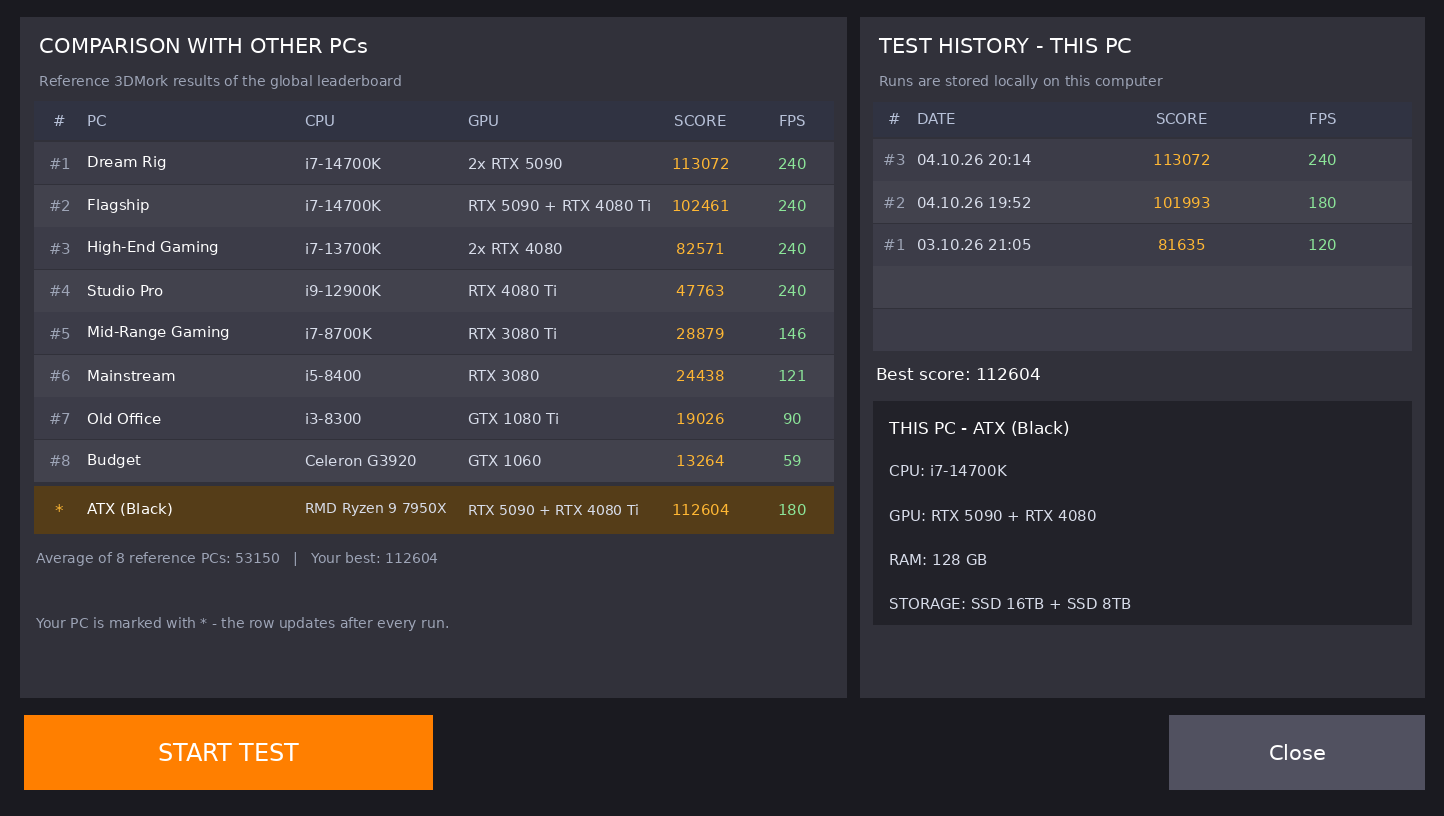
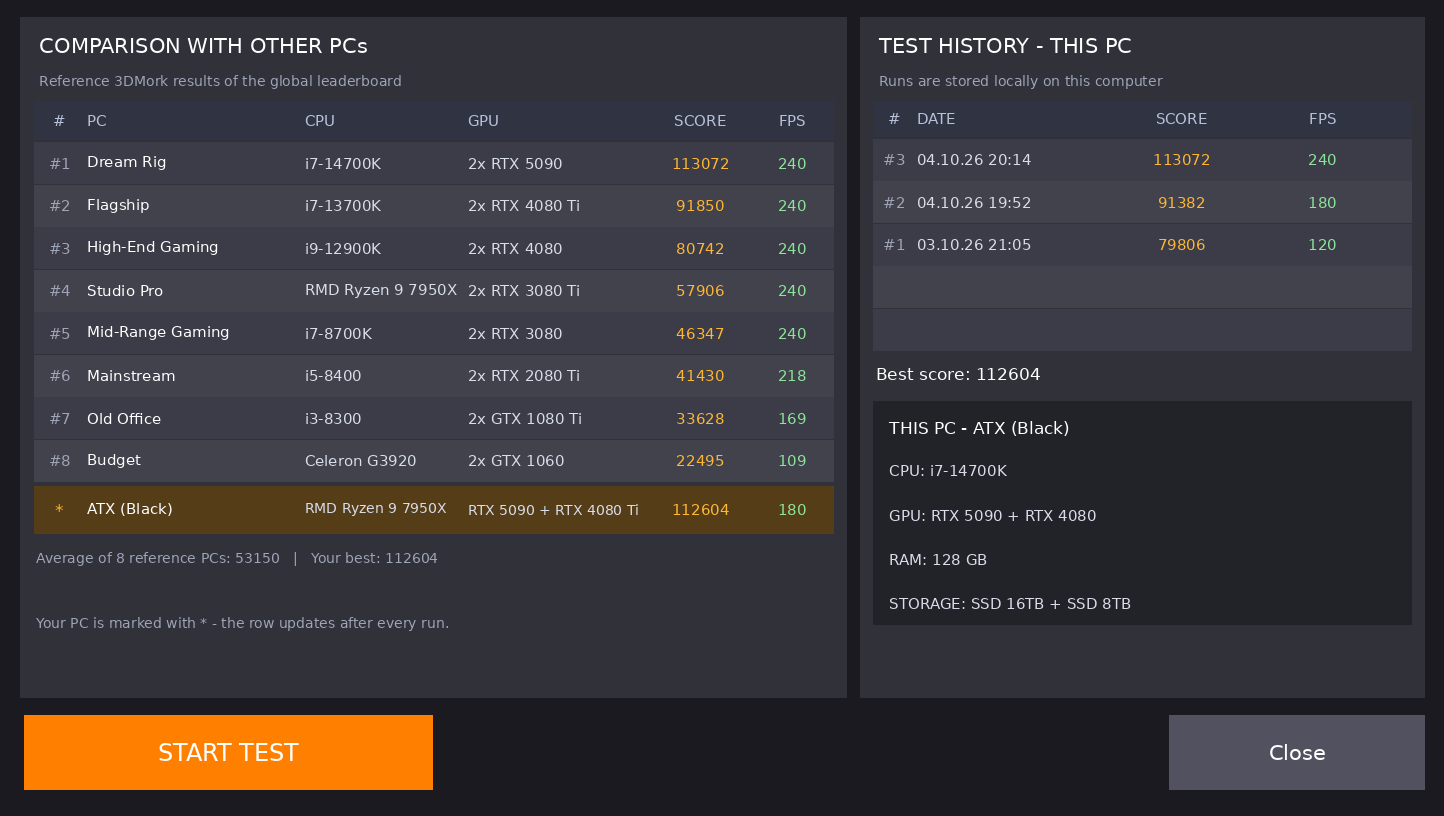
3DMork: в эталонных сборках всегда пара одинаковых видеокарт

diff --git a/tools/3dmork_builds.py b/tools/3dmork_builds.py
@@ -38,32 +38,35 @@ CPU_PART = {
     "i3-8300": (2200, 3.7), "Celeron G3920": (2000, 2.9),
 }
 
+# Пара видеокарт в сборке всегда одинаковая: "RTX 5090 + RTX 4080 Ti" -
+# это не собранная в жизни машина, а набор случайных деталей.
+
 # Сборка мечты, дальше - ступени вниз. Названия идут ключами перевода,
 # чтобы таблица читалась на любом языке (см. ThreeDMork.cs).
 BUILDS = [
     {"key": "3DMork build 1", "cpu": "i7-14700K",
      "gpus": ["RTX5090", "RTX5090"], "rams": ["RAM 64GB(RGB)", "RAM 64GB(RGB)"],
      "drives": ["SSD 16TB", "SSD_M.2 8TB"]},
-    {"key": "3DMork build 2", "cpu": "i7-14700K",
-     "gpus": ["RTX5090", "RTX4080Ti"], "rams": ["RAM 64GB", "RAM 64GB"],
+    {"key": "3DMork build 2", "cpu": "i7-13700K",
+     "gpus": ["RTX4080Ti", "RTX4080Ti"], "rams": ["RAM 64GB", "RAM 64GB"],
      "drives": ["SSD 8TB", "SSD_M.2 8TB"]},
-    {"key": "3DMork build 3", "cpu": "i7-13700K",
+    {"key": "3DMork build 3", "cpu": "i9-12900K",
      "gpus": ["RTX4080", "RTX4080"], "rams": ["RAM 32GB(RGB)", "RAM 32GB(RGB)"],
      "drives": ["SSD 4TB", "SSD_M.2 2TB"]},
-    {"key": "3DMork build 4", "cpu": "i9-12900K",
-     "gpus": ["RTX4080Ti"], "rams": ["RAM 32GB", "RAM 32GB"],
+    {"key": "3DMork build 4", "cpu": "RMD Ryzen 9 7950X",
+     "gpus": ["RTX3080Ti", "RTX3080Ti"], "rams": ["RAM 32GB", "RAM 32GB"],
      "drives": ["SSD 2TB", "SSD_M.2 2TB"]},
     {"key": "3DMork build 5", "cpu": "i7-8700K",
-     "gpus": ["RTX3080Ti"], "rams": ["RAM 16GB(RGB)", "RAM 8GB"],
+     "gpus": ["RTX3080", "RTX3080"], "rams": ["RAM 16GB(RGB)", "RAM 16GB(RGB)"],
      "drives": ["SSD 1TB", "SSD_M.2 1TB"]},
     {"key": "3DMork build 6", "cpu": "i5-8400",
-     "gpus": ["RTX3080"], "rams": ["RAM 16GB", "RAM 8GB"],
+     "gpus": ["RTX2080Ti", "RTX2080Ti"], "rams": ["RAM 16GB", "RAM 16GB"],
      "drives": ["SSD 1TB", "SSD_M.2 512GB"]},
     {"key": "3DMork build 7", "cpu": "i3-8300",
-     "gpus": ["GTX1080Ti"], "rams": ["RAM 8GB", "RAM 8GB"],
+     "gpus": ["GTX1080Ti", "GTX1080Ti"], "rams": ["RAM 8GB", "RAM 8GB"],
      "drives": ["SSD 512GB", "SSD_M.2 256GB"]},
     {"key": "3DMork build 8", "cpu": "Celeron G3920",
-     "gpus": ["GTX1060"], "rams": ["RAM 4GB", "RAM 4GB"],
+     "gpus": ["GTX1060", "GTX1060"], "rams": ["RAM 4GB", "RAM 4GB"],
      "drives": ["HDD 2TB", "FlashDrive"]},
 ]
 
@@ -112,6 +115,12 @@ def reference_benchmarks() -> list:
 
 def main() -> int:
     problems = []
+    for build in BUILDS:
+        gpus = build["gpus"]
+        if len(set(gpus)) != 1:
+            problems.append("в сборке %s две разные видеокарты: %s" % (build["key"], " + ".join(gpus)))
+        if len(build["rams"]) != 2 or len(build["drives"]) != 2:
+            problems.append("в сборке %s не два накопителя и не две планки памяти" % build["key"])
     for cap in (240.0, 60.0):
         print("=== потолок %d кадров" % cap)
         previous = None

diff --git a/Assets/Scripts/Assembly-CSharp/PC/Component/Software/ThreeDMork.cs b/Assets/Scripts/Assembly-CSharp/PC/Component/Software/ThreeDMork.cs
@@ -309,8 +309,9 @@ namespace PC.Component.Software
 		/// <summary>
 		/// Эталонные результаты других машин (сортировка по убыванию счёта).
 		/// Каждая строка - настоящая сборка из деталей игры: видеокарты,
-		/// процессор, память и накопители подобраны друг к другу, поэтому
-		/// не бывает строк вида "RTX 5090 + RTX 3090". Сверху стоит сборка
+		/// процессор, память и накопители подобраны друг к другу, а видеокарты
+		/// в паре всегда одинаковые - "RTX 5090 + RTX 3090" никто не собирает.
+		/// Сверху стоит сборка
 		/// мечты - в каждой категории там самая мощная деталь.
 		/// Название - ключ перевода, чтобы таблица читалась на любом языке.
 		/// Список сборок продублирован в tools/3dmork_builds.py вместе с
@@ -320,13 +321,13 @@ namespace PC.Component.Software
 		{
 			//                       ключ перевода              процессор       видеокарты                    CPU сырой  GPU  RAM  накопители
 			new LeaderboardEntry("3DMork build 1", "i7-14700K", "2x RTX 5090", 27000, 4232f, 24000, 18000),
-			new LeaderboardEntry("3DMork build 2", "i7-14700K", "RTX 5090 + RTX 4080 Ti", 24500, 4232f, 20000, 17000),
-			new LeaderboardEntry("3DMork build 3", "i7-13700K", "2x RTX 4080", 20000, 4073f, 12000, 14000),
-			new LeaderboardEntry("3DMork build 4", "i9-12900K", "RTX 4080 Ti", 11000, 3751f, 10000, 13000),
-			new LeaderboardEntry("3DMork build 5", "i7-8700K", "RTX 3080 Ti", 7000, 2622f, 8000, 11000),
-			new LeaderboardEntry("3DMork build 6", "i5-8400", "RTX 3080", 6000, 2328f, 7500, 10000),
-			new LeaderboardEntry("3DMork build 7", "i3-8300", "GTX 1080 Ti", 4500, 2219f, 6000, 8500),
-			new LeaderboardEntry("3DMork build 8", "Celeron G3920", "GTX 1060", 3000, 1949f, 4000, 1700)
+			new LeaderboardEntry("3DMork build 2", "i7-13700K", "2x RTX 4080 Ti", 22000, 4073f, 20000, 17000),
+			new LeaderboardEntry("3DMork build 3", "i9-12900K", "2x RTX 4080", 20000, 3751f, 12000, 14000),
+			new LeaderboardEntry("3DMork build 4", "RMD Ryzen 9 7950X", "2x RTX 3080 Ti", 14000, 3645f, 10000, 13000),
+			new LeaderboardEntry("3DMork build 5", "i7-8700K", "2x RTX 3080", 12000, 2622f, 10000, 11000),
+			new LeaderboardEntry("3DMork build 6", "i5-8400", "2x RTX 2080 Ti", 11000, 2328f, 9000, 10000),
+			new LeaderboardEntry("3DMork build 7", "i3-8300", "2x GTX 1080 Ti", 9000, 2219f, 6000, 8500),
+			new LeaderboardEntry("3DMork build 8", "Celeron G3920", "2x GTX 1060", 6000, 1949f, 4000, 1700)
 		};
 
 		/// <summary>Мощность процессора для бенчмарка.</summary>

diff --git a/tools/test_3dmork_prefab.py b/tools/test_3dmork_prefab.py
@@ -538,6 +538,12 @@ for declared, built in zip(references, builds_module.reference_benchmarks()):
 
 check(all("CPU " not in entry["cpu"] for entry in references),
       "в таблице нет названий процессоров с префиксом CPU")
+# в одной сборке не может быть двух разных видеокарт: пара всегда одинаковая
+mixed = [entry["gpu"] for entry in references
+         if " + " in entry["gpu"] or not entry["gpu"].startswith("2x ")]
+check(not mixed, "в каждой эталонной сборке пара одинаковых видеокарт (нарушители: %s)" % mixed)
+check(len({entry["gpu"] for entry in references}) == len(references),
+      "видеокарты в эталонных сборках не повторяются между строками")
 check(len({entry["cpu"] for entry in references}) >= 6
       and len({entry["gpu"] for entry in references}) == len(references),
       "в эталонных сборках нет повторов и случайных сочетаний видеокарт")
